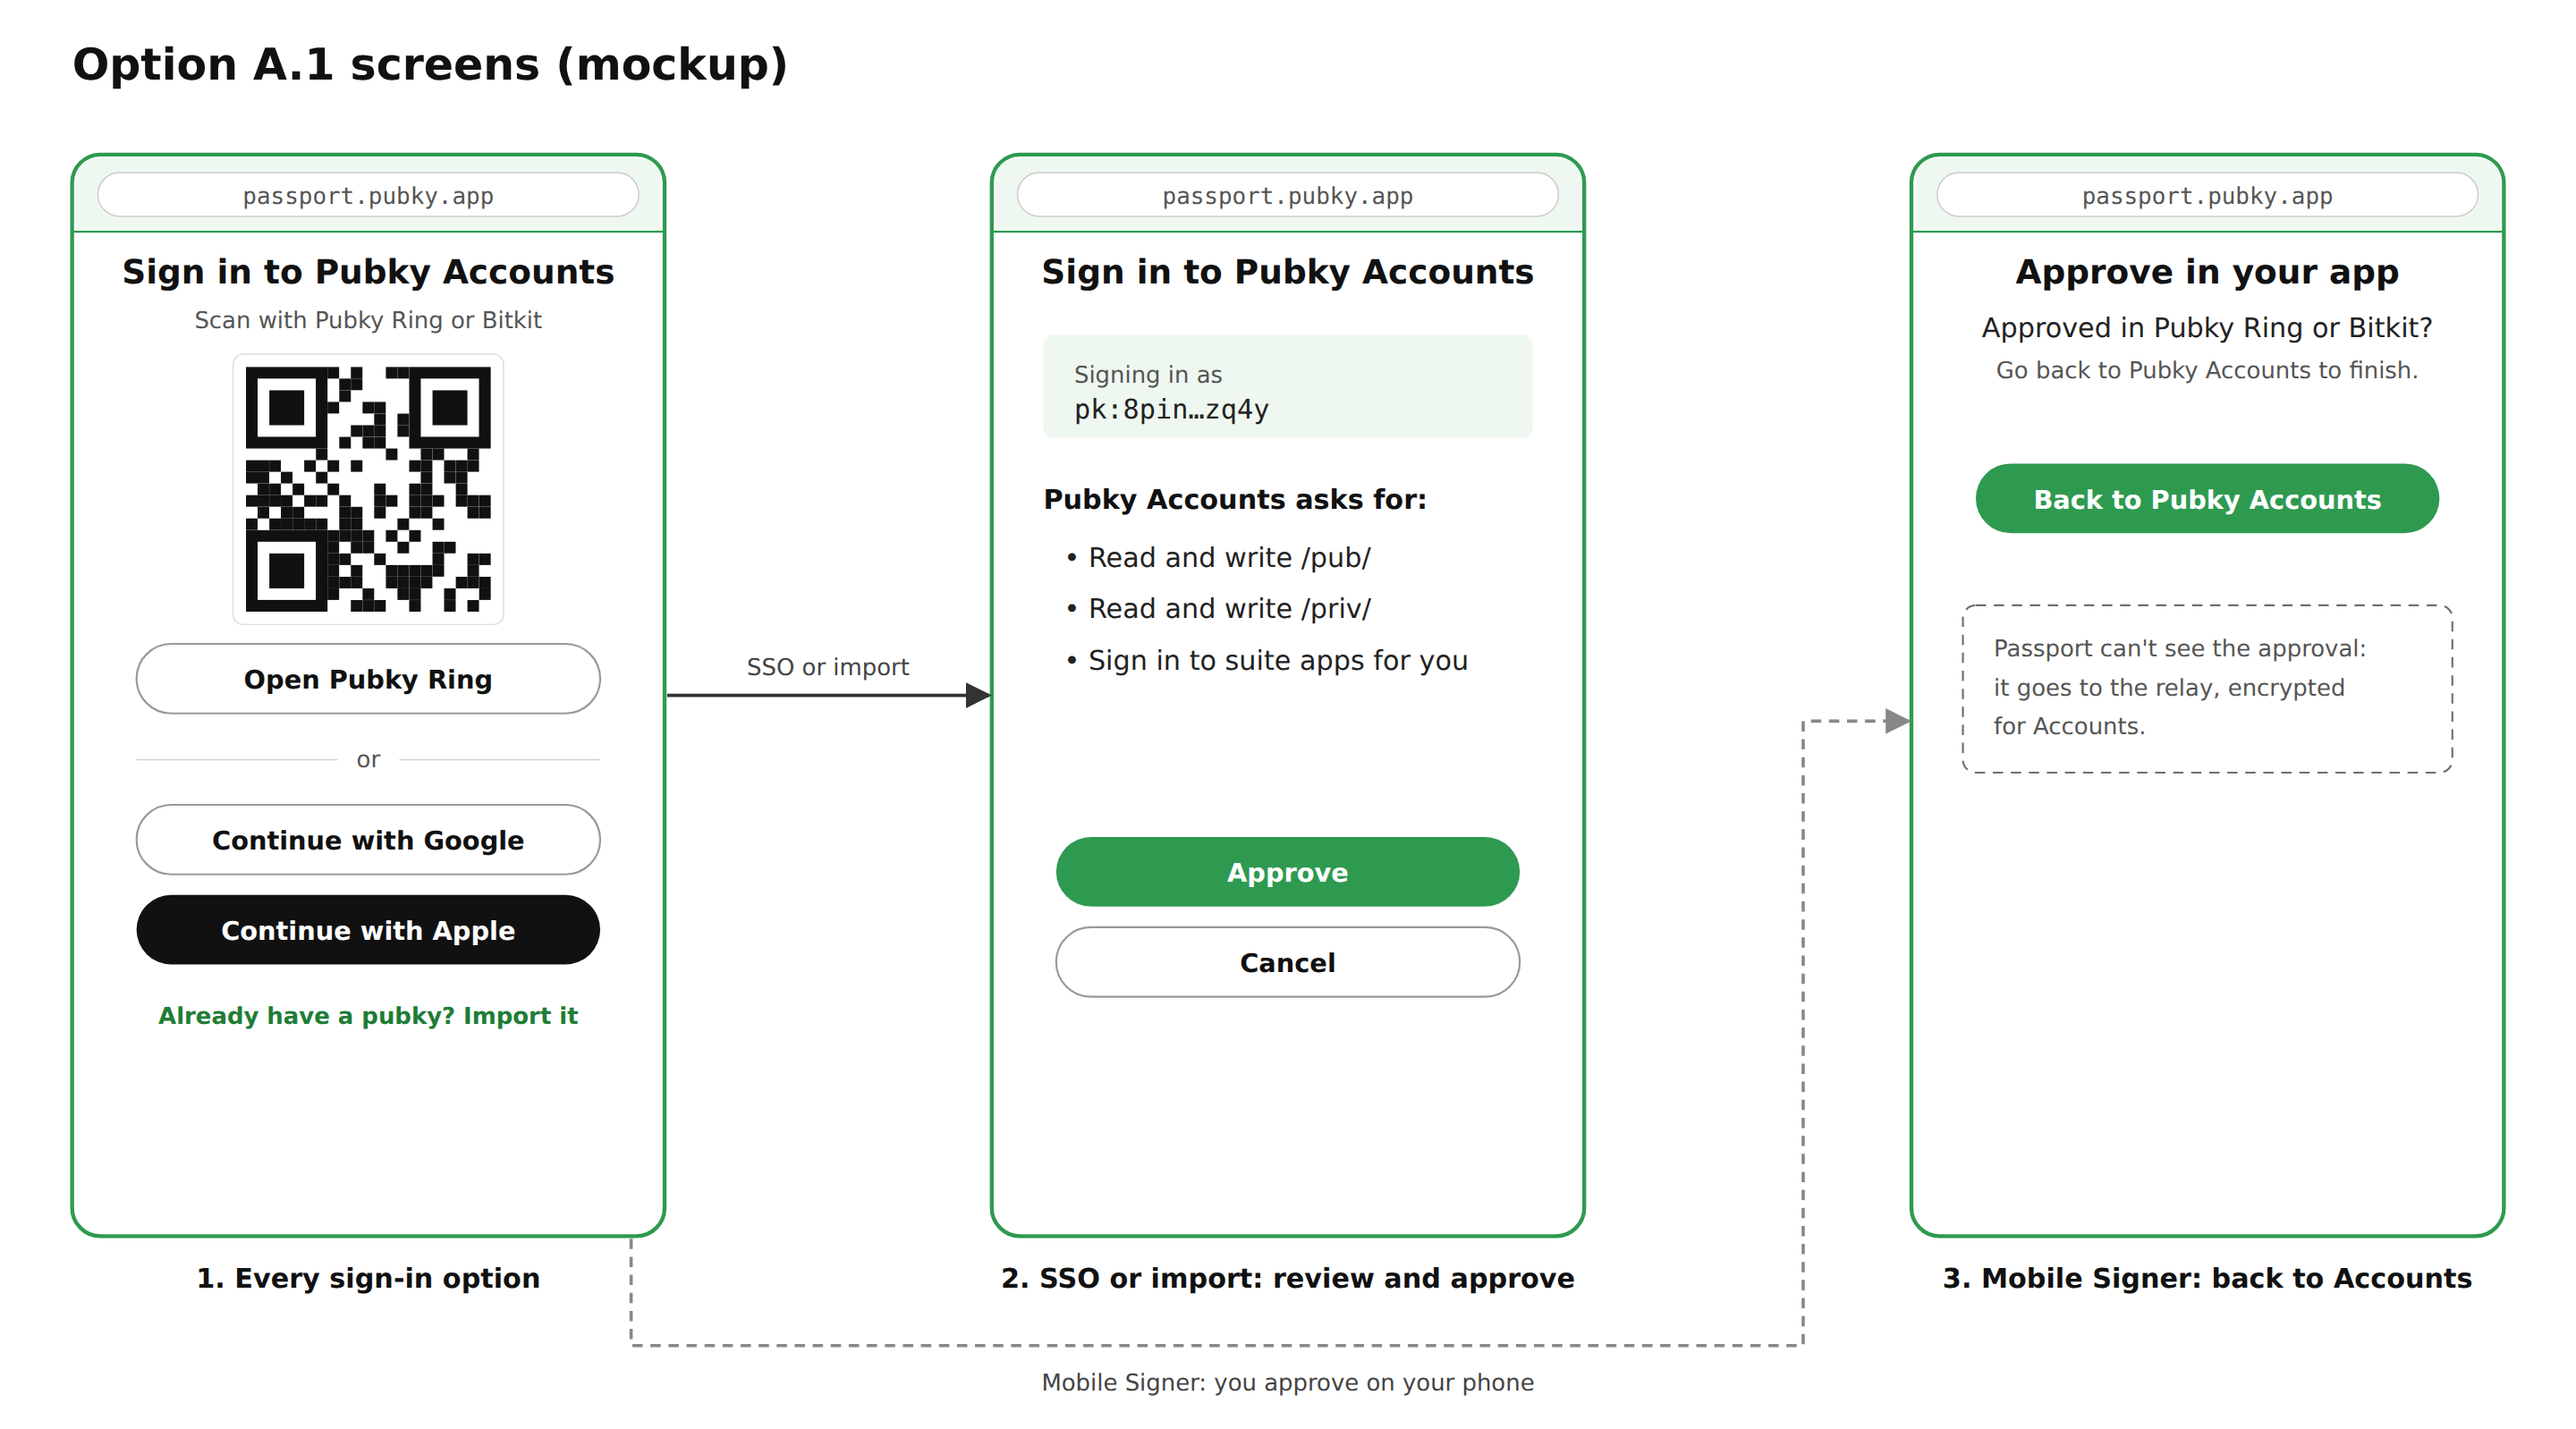
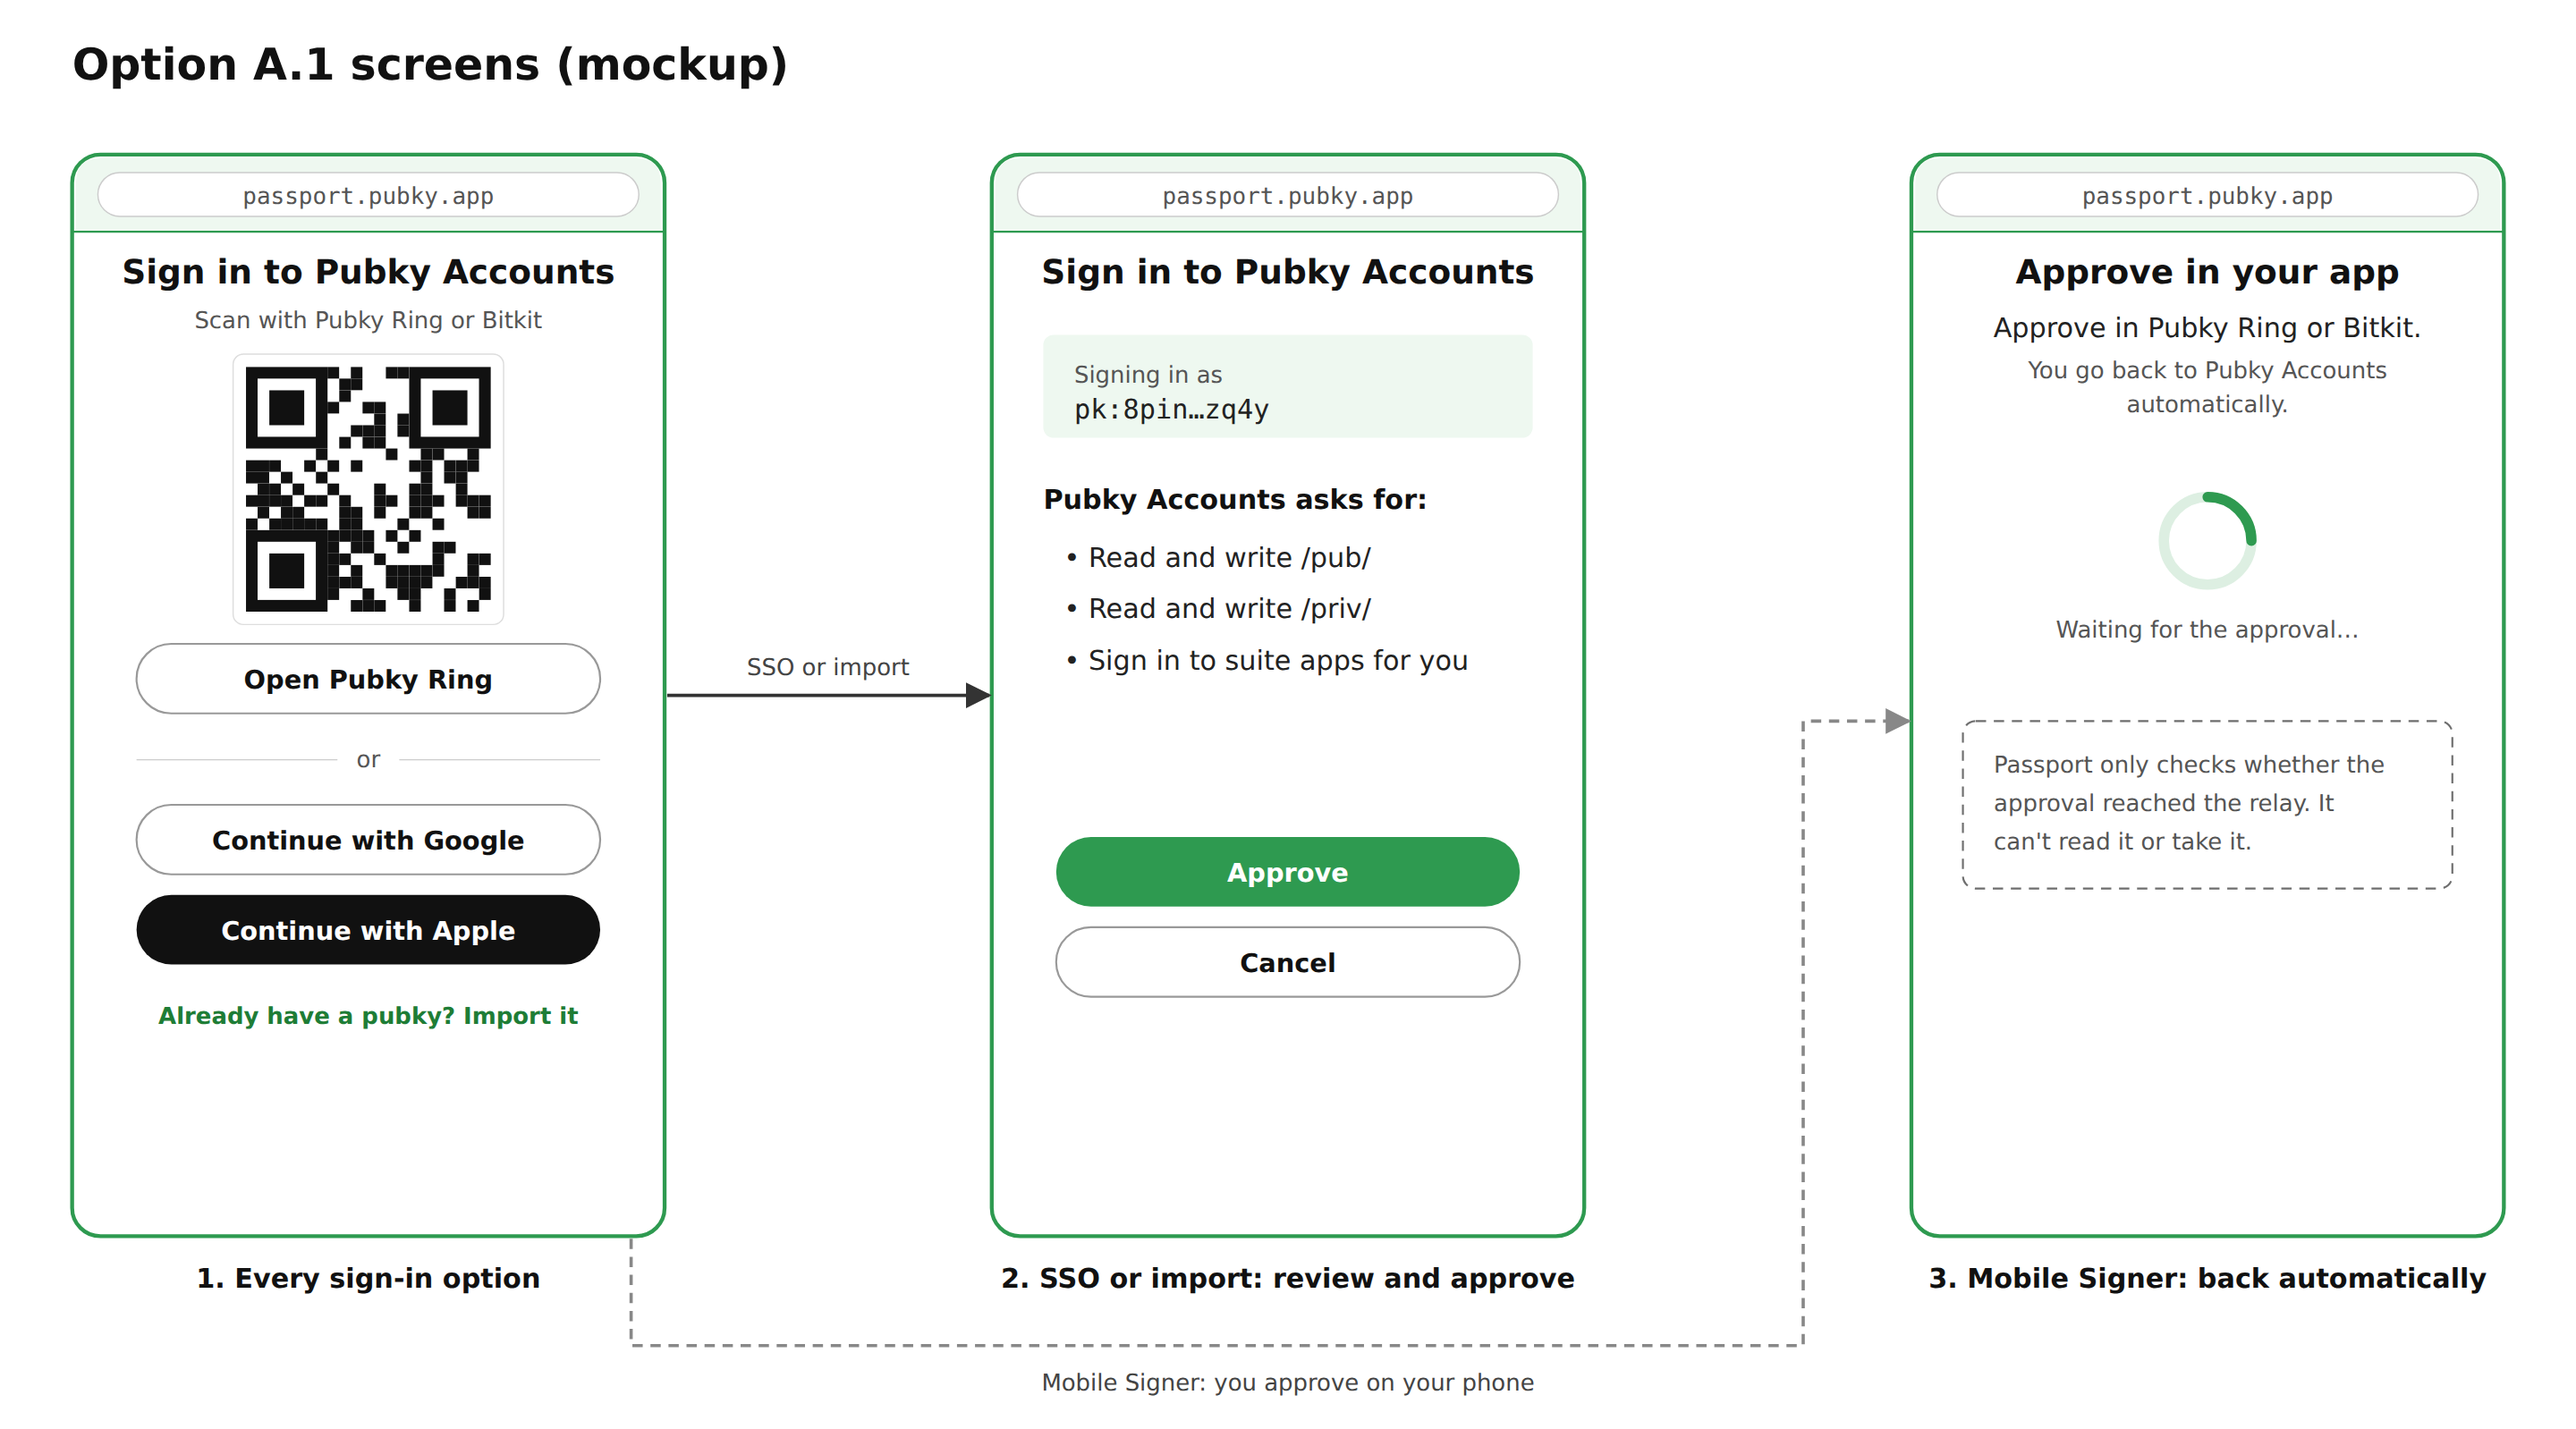
docs(rfc): Passport watches the relay and returns Mobile Signer users automatically

Changed region(s): [[0.75, 0.2146, 0.9688, 0.6133], [0.75, 0.8892, 0.9688, 0.9199]]

diff --git a/docs/rfc/0001-signers-and-accounts.md b/docs/rfc/0001-signers-and-accounts.md
@@ -79,7 +79,7 @@ Benefits of both:
 2. Accounts redirects you to Passport right away, with the request in the address.
 3. Passport shows every sign-in option: the Mobile Signer QR code, the SSO providers, and Import.
 4. You sign in:
-   - With a Mobile Signer: you scan the QR code, or open the link on your phone, and approve in Ring or Bitkit. The Mobile Signer sends the signed parent grant to the relay, and Passport sends you back to Accounts.
+   - With a Mobile Signer: you scan the QR code, or open the link on your phone, and approve in Ring or Bitkit. The Mobile Signer sends the signed parent grant to the relay. Passport checks the relay channel without taking the approval, and redirects you back to Accounts as soon as it's there.
    - With an SSO provider or an imported key: you sign in to Passport, review the request, and approve it. If you already have a local identity in Passport, you only review and approve. Passport sends the signed parent grant to the relay and redirects you back to Accounts.
 5. Accounts picks up the saved request, receives the parent grant from the relay, and sends you on with a child grant.
 
@@ -92,7 +92,6 @@ Tradeoffs:
 
 - You see one extra page change on your first sign-in.
 - Passport needs to show the Mobile Signer QR code, which it doesn't do today.
-- Ring or Bitkit sends the approval to the relay, not to Passport. Passport doesn't know when you've approved, so it needs a way to send you back to Accounts, such as a button.
 - Mobile Signer users go through Passport even though they don't use its key.
 
 ![Option A.1: Passport shows every option](images/0001-1-option-a-redirect.png)
@@ -110,7 +109,6 @@ Tradeoffs:
 Benefits:
 
 - Mobile Signer users stay on the Accounts page.
-- Accounts is already waiting on the relay when you approve in Ring or Bitkit, so there's no "back to Accounts" step.
 - Passport doesn't need to show a QR code.
 
 Tradeoffs:
